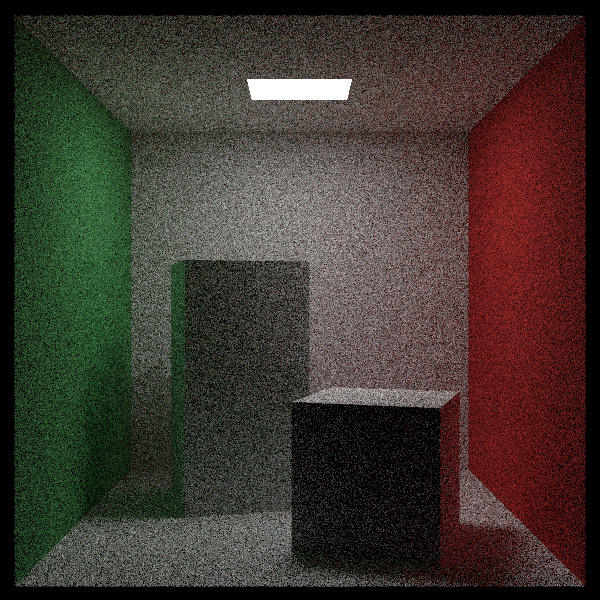
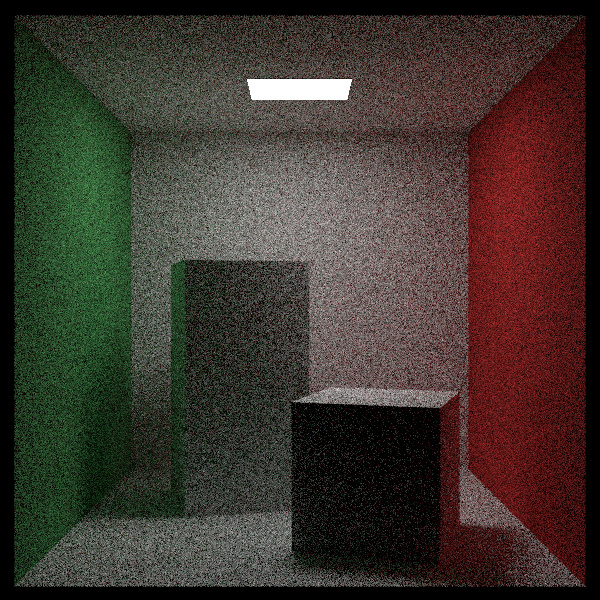
ready for sampling light using pdf class

diff --git a/src/object/aarectangle.h b/src/object/aarectangle.h
@@ -8,6 +8,7 @@ class xy_rectangle : public base_object {
  private:
   double x0_, x1_, y0_, y1_, z_;
   shared_ptr<base_material> mat_ptr_;
+  vec3d normal_;
 
  public:
   xy_rectangle() {}
@@ -18,10 +19,17 @@ class xy_rectangle : public base_object {
    * @param y0 min in y axis
    * @param y1 max in y axis
    * @param z  z position
+   * @param normal normal, default (0, 0, 1)
    */
   xy_rectangle(double x0, double x1, double y0, double y1, double z,
-               shared_ptr<base_material> mat)
-      : x0_{x0}, x1_{x1}, y0_{y0}, y1_{y1}, z_{z}, mat_ptr_{mat} {}
+               shared_ptr<base_material> mat, vec3d const& normal = vec3d{0, 0, 1})
+      : x0_{x0},
+        x1_{x1},
+        y0_{y0},
+        y1_{y1},
+        z_{z},
+        mat_ptr_{mat},
+        normal_{normal} {}
   // time may be needed for moving objects
   virtual void get_uv(double const t, point3d const& p, double& u,
                       double& v) const override {
@@ -37,7 +45,7 @@ class xy_rectangle : public base_object {
     rec.u = (x - x0_) / (x1_ - x0_);
     rec.v = (y - y0_) / (y1_ - y0_);
     rec.t = t;
-    auto outward_normal = vec3d{0, 0, 1};
+    auto outward_normal = normal_;
     rec.set_face_normal(r, outward_normal);
     rec.mat_ptr = mat_ptr_;
     rec.p = r.at(t);
@@ -95,7 +103,6 @@ class xz_rectangle : public base_object {
     rec.t = t;
     auto outward_normal = normal_;
     rec.set_face_normal(r, outward_normal);
-    if (!rec.front_face) return false;
     rec.mat_ptr = mat_ptr_;
     rec.p = r.at(t);
     return true;
@@ -112,6 +119,7 @@ class yz_rectangle : public base_object {
  private:
   double y0_, y1_, z0_, z1_, x_;
   shared_ptr<base_material> mat_ptr_;
+  vec3d normal_;
 
  public:
   yz_rectangle() {}
@@ -122,10 +130,11 @@ class yz_rectangle : public base_object {
    * @param z0 min in z axis
    * @param z1 max in z axis
    * @param x  x position
+   * @param normal default (1, 0, 0)
    */
   yz_rectangle(double y0, double y1, double z0, double z1, double x,
-               shared_ptr<base_material> mat)
-      : y0_{y0}, y1_{y1}, z0_{z0}, z1_{z1}, x_{x}, mat_ptr_{mat} {}
+               shared_ptr<base_material> mat, vec3d const &normal = vec3d{1, 0, 0})
+      : y0_{y0}, y1_{y1}, z0_{z0}, z1_{z1}, x_{x}, mat_ptr_{mat}, normal_{normal} {}
   // time may be needed for moving objects
   virtual void get_uv(double const t, point3d const& p, double& u,
                       double& v) const override {
@@ -141,7 +150,7 @@ class yz_rectangle : public base_object {
     rec.u = (y - y0_) / (y1_ - y0_);
     rec.v = (z - z0_) / (z1_ - z0_);
     rec.t = t;
-    auto outward_normal = vec3d{1, 0, 0};
+    auto outward_normal = this->normal_;
     rec.set_face_normal(r, outward_normal);
     rec.mat_ptr = mat_ptr_;
     rec.p = r.at(t);

diff --git a/src/appearance/material.h b/src/appearance/material.h
@@ -18,7 +18,8 @@ class base_material {
                              ray const& scattered) const {
     return 0.0;
   }
-  virtual color_rgb emit(double u, double v, point3d const& p) const {
+  virtual color_rgb emit(ray const& r_in, hit_record const& rec, double u,
+                         double v, point3d const& p) const {
     return color_rgb{0, 0, 0};  // we do not emit light by default
   }
 };
@@ -38,19 +39,16 @@ class lambertian : public base_material {
                        double& sample_pdf) const override {
     onb uvw;
     uvw.build_from_w(rec.normal);
-    // auto scatter_dir = uvw.local(unit_vector(random_in_hemisphere()));
     auto scatter_dir = uvw.local(random_cosine_on_sphere());
     // test if zero direction
     // if (scatter_dir.near_zero()) scatter_dir = rec.normal;
     scattered = ray(rec.p, unit_vector(scatter_dir), r_in.time());
     attenuation = albedo_->value(rec.u, rec.v, rec.p);
     sample_pdf = dot(uvw.w(), scattered.direction()) / PI;
-    // sample_pdf = .5 / PI;
     return true;
   }
   virtual double scatter_pdf(ray const& r_in, hit_record const& rec,
                              ray const& scattered) const override {
-    return .5 / PI;
     auto cosine =
         dot(unit_vector(rec.normal), unit_vector(scattered.direction()));
     return cosine < 0 ? 0 : cosine / PI;
@@ -139,8 +137,12 @@ class diffuse_light : public base_material {
                        double& sample_pdf) const override {
     return false;  // a diffuse light source does not reflect rays
   }
-  virtual color_rgb emit(double u, double v, point3d const& p) const override {
-    return emit_->value(u, v, p);
+  virtual color_rgb emit(ray const& r_in, hit_record const& rec, double u,
+                         double v, point3d const& p) const override {
+    if (rec.front_face)
+      return emit_->value(u, v, p);
+    else
+      return color_rgb{0, 0, 0};
   }
 
  private:

diff --git a/src/object/box.h b/src/object/box.h
@@ -27,9 +27,9 @@ box::box(point3d const& p0, point3d const& p1,
   box_max_ = p1;
 
   faces_.add(make_shared<xy_rectangle>(box_min_.x(), box_max_.x(), box_min_.y(),
-                                       box_max_.y(), box_min_.z(), mat_ptr));
+                                       box_max_.y(), box_min_.z(), mat_ptr, vec3d{0, 0, -1}));
   faces_.add(make_shared<xy_rectangle>(box_min_.x(), box_max_.x(), box_min_.y(),
-                                       box_max_.y(), box_max_.z(), mat_ptr));
+                                       box_max_.y(), box_max_.z(), mat_ptr, vec3d{0, 0, 1}));
 
   faces_.add(make_shared<xz_rectangle>(box_min_.x(), box_max_.x(), box_min_.z(),
                                        box_max_.z(), box_min_.y(), mat_ptr, vec3d{0, -1, 0}));
@@ -37,9 +37,9 @@ box::box(point3d const& p0, point3d const& p1,
                                        box_max_.z(), box_max_.y(), mat_ptr, vec3d{0, 1, 0}));
 
   faces_.add(make_shared<yz_rectangle>(box_min_.y(), box_max_.y(), box_min_.z(),
-                                       box_max_.z(), box_min_.x(), mat_ptr));
+                                       box_max_.z(), box_min_.x(), mat_ptr, vec3d{-1, 0, 0}));
   faces_.add(make_shared<yz_rectangle>(box_min_.y(), box_max_.y(), box_min_.z(),
-                                       box_max_.z(), box_max_.x(), mat_ptr));
+                                       box_max_.z(), box_max_.x(), mat_ptr, vec3d{1, 0, 0}));
 }
 
 void box::get_uv(double const t, point3d const& p, double& u, double& v) const {

diff --git a/src/base/pdf.h b/src/base/pdf.h
@@ -26,18 +26,18 @@ class cosine_pdf : public pdf {
     return uvw_.local(random_cosine_on_sphere());
   }
 };
-class hemisphere_uniform_pdf : public pdf {
- private:
-  onb uvw_;
+// class hemisphere_uniform_pdf : public pdf {
+//  private:
+//   onb uvw_;
 
- public:
-  hemisphere_uniform_pdf(vec3d const &normal) { this->uvw_.build_from_w(normal); }
-  virtual double value(vec3d const &dir) const override {
-    return 0.5/PI;
-  }
-  virtual vec3d generate() const override {
-    return uvw_.local(random_in_hemisphere());
-  }
-};
+//  public:
+//   hemisphere_uniform_pdf(vec3d const &normal) { this->uvw_.build_from_w(normal); }
+//   virtual double value(vec3d const &dir) const override {
+//     return 0.5/PI;
+//   }
+//   virtual vec3d generate() const override {
+//     return uvw_.local(random_in_hemisphere());
+//   }
+// };
 
 #endif

diff --git a/src/main.cpp b/src/main.cpp
@@ -33,7 +33,7 @@ color_rgb ray_color(ray const &r_in, color_rgb const &background,
   // shading are handled by object_list
   ray scattered;
   color_rgb attenuation;
-  color_rgb emit_color = rec.mat_ptr->emit(rec.u, rec.v, rec.p);
+  color_rgb emit_color = rec.mat_ptr->emit(r_in, rec, rec.u, rec.v, rec.p);
   double sample_pdf;
   // if the material scatters light this ray gets scatter and emit
   if (!rec.mat_ptr->scatter(r_in, rec, attenuation, scattered, sample_pdf))

diff --git a/src/object/baseobject.h b/src/object/baseobject.h
@@ -31,6 +31,12 @@ class base_object {
   virtual bool hit(const ray& r, double t_min, double t_max,
                    hit_record& rec) const = 0;
   virtual bool bounding_box(double tm0, double tm1, aabb& buf_aabb) const = 0;
+  virtual double pdf_value(point3d const &origin, vec3d const &direction) const {
+    return 0.0;
+  }
+  virtual vec3d random_sample(vec3d const &origin) const {
+    return vec3d{1, 0, 0};
+  }
 };
 
 class translate : public base_object {
